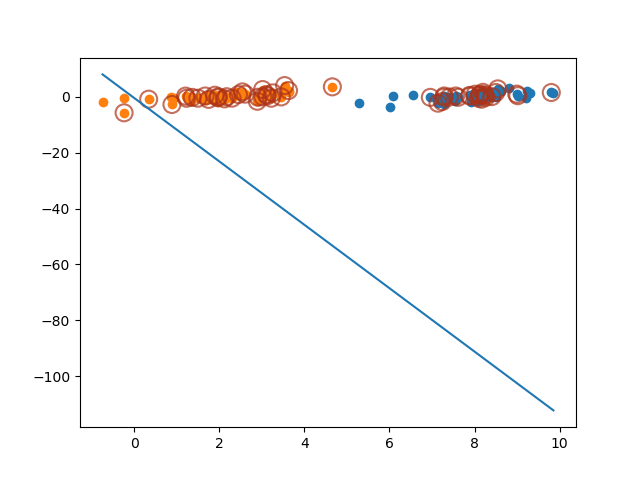
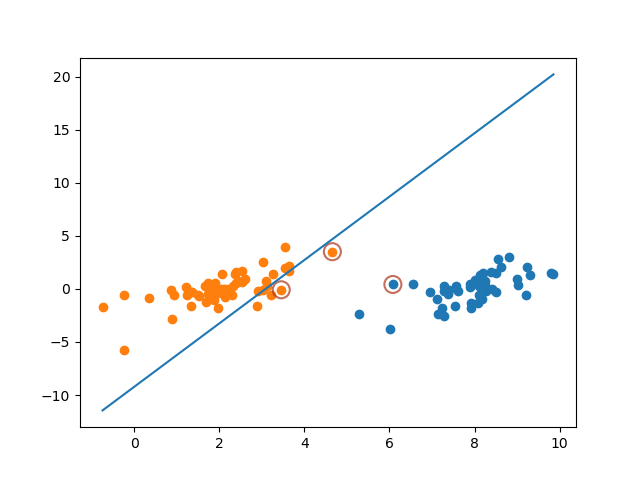
SVM can run

diff --git a/statistical_computing/final/SMO/svm_simple_smo.py b/statistical_computing/final/SMO/svm_simple_smo.py
@@ -60,89 +60,139 @@ def simple_smo(dataset, labels, C, max_iter):
     it = 0
     K = np.dot(dataset, dataset.T)
 
-    def f(x):
-        "SVM分类器函数 y = w^Tx + b"
-        # Kernel function vector.
-        x = np.matrix(x).T
-        data = np.matrix(dataset)
-        ks = data*x
-
-        print(data.shape)
-        print(ks.shape)
-
-        # Predictive value.
-        wx = np.matrix(alphas*labels)*ks
-        fx = wx + b
-        print(wx.shape)
-
-        return fx[0, 0]
-    
-    # def f(i):
+    # def f(x):
     #     "SVM分类器函数 y = w^Tx + b"
     #     # Kernel function vector.
-    #     ks = K[i,]
+    #     x = np.matrix(x).T
+    #     data = np.matrix(dataset)
+    #     ks = data*x
 
     #     # Predictive value.
     #     wx = np.matrix(alphas*labels)*ks
     #     fx = wx + b
 
     #     return fx[0, 0]
+    
+    def f(i):
+        "SVM分类器函数 y = w^Tx + b"
+        # Kernel function vector.
+        ks = K[i,]
+
+        # Predictive value.
+        wx = np.matrix(alphas*labels)*ks
+        fx = wx + b
+
+        return fx[0, 0]
+
+    def __f(i):
+        return sum(alphas * labels * K[i, :]) + b
+
+    def __E(i):
+        return __f(i) - labels[i]
+
+    def __eta(i, j):
+        return K[i, i] + K[j, j] - 2 * K[i, j]
+    
+    def __alpha_j_new(i, j):
+        E_i = __E(i)
+        E_j = __E(j)
+        eta = __eta(i, j)
+        return alphas[j] + (labels[j] * (E_i - E_j) / eta), E_i, E_j, eta
+
+    def __bound(i, j, C):
+        if labels[i] == labels[j]:
+            B_U = min(C, alphas[j] + alphas[i])
+            B_L = max(0, alphas[j] + alphas[i] - C)
+        else:
+            B_U = min(C, C + alphas[j] - alphas[i])
+            B_L = max(0, alphas[j] - alphas[i])
+        return B_U, B_L
+
+    def __update_alpha_j(i, j, C):
+        B_U, B_L = __bound(i, j, C)
+        alpha_j_star, E_i, E_j, eta = __alpha_j_new(i, j)
+        return np.clip(alpha_j_star, B_L, B_U), E_i, E_j, eta
+
+    def __update_alpha_i(i, j, alpha_j_star):
+        return alphas[i] + labels[i] * labels[j] * (alphas[j] - alpha_j_star)
+
+    def __update_b(i, j, alpha_i_star, alpha_j_star, E_i, E_j, C):
+        b_star = 0
+        b_i_star = -E_i - labels[i] * K[i, i] * (alpha_i_star - alphas[i]) - labels[j] * K[j, i] * (alpha_j_star - alphas[j]) + b
+        b_j_star = -E_j - labels[i] * K[i, j] * (alpha_i_star - alphas[i]) - labels[j] * K[j, j] * (alpha_j_star - alphas[j]) + b
+
+        if alpha_i_star <= C and alpha_i_star >= 0:
+            b_star = b_i_star
+        elif alpha_j_star <= C and alpha_j_star >= 0:
+            b_star = b_j_star
+        else:
+            b_star = (b_i_star + b_j_star) / 2
+        
+        return b_star
 
     all_alphas, all_bs = [], []
 
     while it < max_iter:
         pair_changed = 0
         for i in range(m):
-            a_i, x_i, y_i = alphas[i], dataset[i], labels[i]
-            fx_i = f(x_i)
-            # fx_i = f(i)
-            E_i = fx_i - y_i
+            # a_i, x_i, y_i = alphas[i], dataset[i], labels[i]
+            # fx_i = f(x_i)
+            # fx_i = __f(i)
+            # E_i = fx_i - y_i
 
             j = select_j(i, m)
-            a_j, x_j, y_j = alphas[j], dataset[j], labels[j]
-            fx_j = f(x_j)
-            # fx_j = f(j)
-            E_j = fx_j - y_j
+            # a_j, x_j, y_j = alphas[j], dataset[j], labels[j]
+            # fx_j = f(x_j)
+            # fx_j = __f(j)
+            # E_j = fx_j - y_j
 
             # K_ii, K_jj, K_ij = np.dot(x_i, x_i), np.dot(x_j, x_j), np.dot(x_i, x_j)
-            K_ii, K_jj, K_ij = K[i, i], K[j, j], K[i, j]
-            eta = K_ii + K_jj - 2*K_ij
+            # K_ii, K_jj, K_ij = K[i, i], K[j, j], K[i, j]
+            # eta = K_ii + K_jj - 2*K_ij
+            # eta = __eta(i, j)
+            # if eta <= 0:
+            #     print('WARNING  eta <= 0')
+            #     continue
+
+            # 获取更新的alpha对
+            # a_i_old, a_j_old = a_i, a_j
+            # a_j_new = a_j_old + y_j*(E_i - E_j)/eta
+
+            # 对alpha进行修剪
+            # if y_i != y_j:
+            #     L = max(0, a_j_old - a_i_old)
+            #     H = min(C, C + a_j_old - a_i_old)
+            # else:
+            #     L = max(0, a_i_old + a_j_old - C)
+            #     H = min(C, a_j_old + a_i_old)
+
+            # a_j_new = clip(a_j_new, L, H)
+            a_j_new, E_i, E_j, eta = __update_alpha_j(i, j, C)
             if eta <= 0:
                 print('WARNING  eta <= 0')
                 continue
+            # a_i_new = a_i_old + y_i*y_j*(a_j_old - a_j_new)
+            a_i_new = __update_alpha_i(i, j, a_j_new)
 
-            # 获取更新的alpha对
-            a_i_old, a_j_old = a_i, a_j
-            a_j_new = a_j_old + y_j*(E_i - E_j)/eta
-
-            # 对alpha进行修剪
-            if y_i != y_j:
-                L = max(0, a_j_old - a_i_old)
-                H = min(C, C + a_j_old - a_i_old)
-            else:
-                L = max(0, a_i_old + a_j_old - C)
-                H = min(C, a_j_old + a_i_old)
-
-            a_j_new = clip(a_j_new, L, H)
-            a_i_new = a_i_old + y_i*y_j*(a_j_old - a_j_new)
-
-            if abs(a_j_new - a_j_old) < 0.00001:
+            if abs(a_j_new - alphas[j]) < 0.00001:
                 print('WARNING   alpha_j not moving enough')
                 continue
 
-            alphas[i], alphas[j] = a_i_new, a_j_new
-
             # 更新阈值b
             #import ipdb; ipdb.set_trace()
-            b_i = -E_i - y_i*K_ii*(a_i_new - a_i_old) - y_j*K_ij*(a_j_new - a_j_old) + b
-            b_j = -E_j - y_i*K_ij*(a_i_new - a_i_old) - y_j*K_jj*(a_j_new - a_j_old) + b
+            # b_i = -E_i - y_i*K_ii*(a_i_new - a_i_old) - y_j*K_ij*(a_j_new - a_j_old) + b
+            # b_j = -E_j - y_i*K_ij*(a_i_new - a_i_old) - y_j*K_jj*(a_j_new - a_j_old) + b
 
-            if 0 < a_i_new < C:
-                b = b_i
-            elif 0 < a_j_new < C:
-                b = b_j
-            else:
-                b = (b_i + b_j)/2
+            # if 0 < a_i_new < C:
+            #     b = b_i
+            # elif 0 < a_j_new < C:
+            #     b = b_j
+            # else:
+            #     b = (b_i + b_j)/2
+
+            b = __update_b(i, j, a_i_new, a_j_new, E_i, E_j, C)
+
+            alphas[i], alphas[j] = a_i_new, a_j_new
 
             all_alphas.append(alphas)
             all_bs.append(b)

diff --git a/statistical_computing/final/SMO/svm.py b/statistical_computing/final/SMO/svm.py
@@ -6,7 +6,10 @@ from scipy.spatial.distance import pdist, squareform
 import pandas as pd
 import matplotlib.pyplot as plt
 from IPython.display import display
+from numpy.random import multivariate_normal as mvn
 
+from sklearn.model_selection import train_test_split
+from sklearn.datasets import load_breast_cancer
 #%%
 def load_data(filename):
     dataset, labels = [], []
@@ -81,9 +84,7 @@ class SVM():
         # print("Alpha: ", self.alpha.shape)
         # print("Y: ",self.y.shape)
         # print("K[i, :]: ",self.K[i, :].shape)
-        # prod = np.multiply(np.multiply(self.alpha,  self.y), self.K[i, :])
         # print((self.alpha * self.y * self.K[i, :]).shape)
-        # print("Prod: ", prod.shape)
         return sum(self.alpha * self.y * self.K[i, :]) + self.b
     
     def __E(self, i):
@@ -95,7 +96,8 @@ class SVM():
     def __alpha_j_new(self, i, j):
         E_i = self.__E(i)
         E_j = self.__E(j)
-        return self.alpha[j] + (self.y[j] * (E_i - E_j) / self.__eta(i, j)), E_i, E_j
+        eta = self.__eta(i, j)
+        return self.alpha[j] + (self.y[j] * (E_i - E_j) / eta), E_i, E_j, eta
 
     def __bound(self, i, j, C):
         # print("i: ", i, " | j: ", j, " | alpha_i: ", self.alpha[i], " | alpha_j: ", self.alpha[j], " | C: ", C)
@@ -110,8 +112,8 @@ class SVM():
 
     def __update_alpha_j(self, i, j, C):
         B_U, B_L = self.__bound(i, j, C)
-        alpha_j_star, E_i, E_j = self.__alpha_j_new(i, j)
-        return np.clip(alpha_j_star, B_L, B_U), E_i, E_j
+        alpha_j_star, E_i, E_j, eta = self.__alpha_j_new(i, j)
+        return np.clip(alpha_j_star, B_L, B_U), E_i, E_j, eta
 
     def __update_alpha_i(self, i, j, alpha_j_star):
         return self.alpha[i] + self.y[i] * self.y[j] * (self.alpha[j] - alpha_j_star)
@@ -161,18 +163,19 @@ class SVM():
             for i in range(self.n):
                 j = self.__choose_j(i)
 
-                alpha_j_star, E_i, E_j = self.__update_alpha_j(i, j, C)
+                alpha_j_star, E_i, E_j, eta = self.__update_alpha_j(i, j, C)
                 # print("alpha_j_star: ", alpha_j_star, " | E_i: ", E_i, " | E_j: ", E_j)
-                # if self.K[i, i] + self.K[j, j] - 2*self.K[i, j] <= 0:
-                    # print('WARNING  eta <= 0')
-                    # continue
+                if eta <= 0:
+                    # print('WARNING: Eta <= 0')
+                    skip = True
+                    continue
 
                 alpha_i_star = self.__update_alpha_i(i, j, alpha_j_star)
                 # print("alpha_i_star: ", alpha_i_star)
-                # if abs(alpha_j_star - self.alpha[j]) < 0.00001:
-                    # print('WARNING   alpha_j not moving enough')
-                    # skip = True
-                    # continue
+                if abs(alpha_j_star - self.alpha[j]) < 0.00001:
+                    # print('WARNING: alpha_j not moving enough')
+                    skip = True
+                    continue
 
                 b_star = self.__update_b(i, j, alpha_i_star, alpha_j_star, E_i, E_j, C)
 
@@ -184,33 +187,67 @@ class SVM():
                 self.alpha[j] = alpha_j_star
                 self.b = b_star
             
-            if not skip:
-                iter += 1
-                print("Iter: ", iter, " | Loss: ", loss)
+            # if not skip:
+            iter += 1
+            print("Iter: ", iter, " | Loss: ", loss)
+
+    def predict(self, X):
+        X_c = np.concatenate((self.X, X))
+        K_c = self.cal_kernel(X_c)
+        K_train_test = K_c[0:self.n, self.n:]
+        print(K_train_test.shape)
+        pred = np.dot((self.alpha * self.y), K_train_test) + self.b
+        return pred
 
     def test(self):
         print(self.__f(0))
 
+def gen_dataset():
+    size = 50
+    mean = [2, 2]
+    cov = [[1, 0], [0, 1]]
+    X1 = mvn(mean, cov, size)
+    y1 = np.full(size, -1)
+
+    mean = [-2, -2]
+    cov = [[1, 0], [0, 1]]
+    X2 = mvn(mean, cov, size)
+    y2 = np.full(size, 1)
+
+    return np.concatenate((X1, X2)), np.concatenate((y1, y2))
+
+def acc_rate(y_pred, y_test):
+    y_pred, y_test = np.array(y_pred).ravel(), np.array(y_test).ravel()
+    n = y_test.shape[0]
+    acc = sum((y_pred * y_test) > 0) / n
+
+    print("Acc: ", acc)
+    return acc
+
+def load_bc():
+    dataset, labels = load_breast_cancer(return_X_y=True)
+    labels[labels == 0] = -1
+
+    return dataset, labels
 #%%
 if __name__ == "__main__":
-    dataset, labels = load_data('testSet.txt')
-    X_df = pd.DataFrame(dataset)
-    y_df = pd.DataFrame(labels)
+    # dataset, labels = load_data('testSet.txt')
+    dataset, labels = load_bc()
+    # dataset, labels = gen_dataset()
 
-    X = X_df.to_numpy()
-    y = y_df.to_numpy()
+    X_train, X_test, y_train, y_test = train_test_split(dataset, labels, test_size=0.33, random_state=42)
+    X_train, X_test, y_train, y_test = np.array(X_train), np.array(X_test), np.array(y_train), np.array(y_test)
 
-    display(X_df.head())
-    display(y_df.head())
+    print("X_Train: ", X_train.shape)
+    display(pd.DataFrame(X_train).head())
+    print("Y_Train: ", y_train.shape)
+    display(pd.DataFrame(y_train).head())
 
     svm = SVM()
-    # svm.test()
-    # display(svm.cal_kernel(X_df.to_numpy()[:5, :]))
 
-    svm.fit(X, y, max_iter=1000)
+    svm.fit(X_train, y_train, C=0.6, max_iter=1000)
+    y_pred = svm.predict(X_test)
+    acc_rate(y_pred, y_test)
+    display(y_pred[:10])
 
-    draw_boundary(X, y, svm.alpha, svm.b)
-
-# %%
-
-# %%
+    # draw_boundary(X, y, svm.alpha, svm.b)
